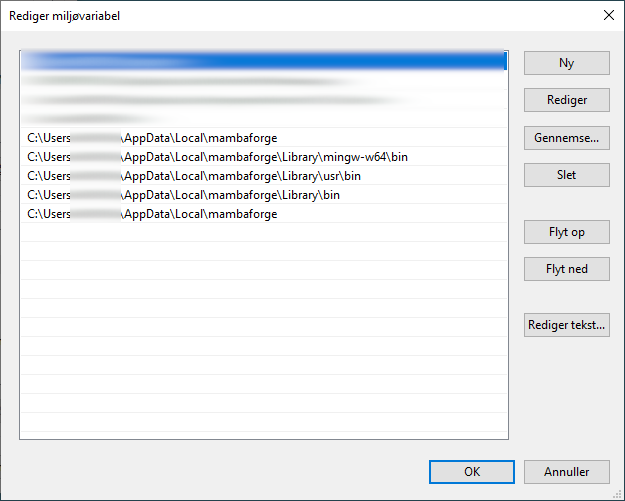
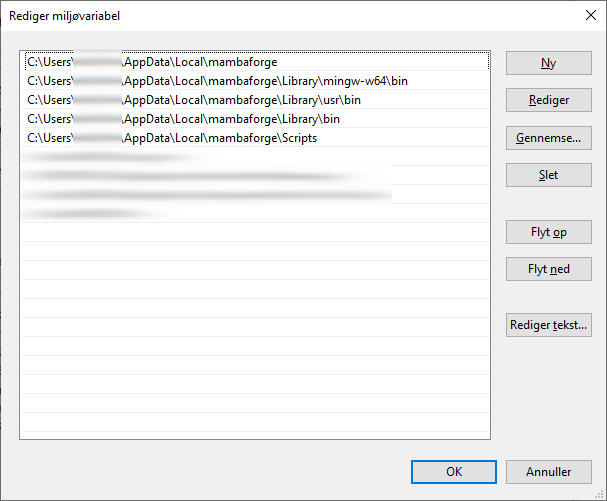
docs: Tilvælg stier på PATH, og lav vejledningen om, så den beskriver, hvordan man fjerner dem igen.

diff --git a/source/setup.rst b/source/setup.rst
@@ -102,14 +102,16 @@ standardiseret placering som bør følges. Tryk næste.
     *Installationsplacering*
 
 Sidste skridt i installationen er at tage stilling til avancerede
-indstillinger. Vi følger de anbefalede valgmuligheder:
+indstillinger. Vi følger de anbefalede valgmuligheder bortset fra,
+at vi gerne vil kunne tilgå `mamba` fra enhver terminal, herunder
+også i en IDE som VS Code. Sæt derfor følgende og lad resten være
+som det var i udgangspunktet:
 
+* Tilføj MambaForge-stier til din brugers lokale ``PATH``-miljøvariabel
 * Registrér Mambaforge som default Python installation
 * Ryd cache efter installation
 
-Førstnævnte er det bedste valg for de fleste. Hvis det **ikke** er det bedste
-valg for dig ved du det godt og kan med fordel vælge anderledes. Alle andre bør
-følge anbefalingen her.
+Miljøvariablen ``PATH`` kan rettes til senere, hvis det ikke er nødvendigt.
 
 .. figure:: ./images/mamba-install-05.png
     :align: center
@@ -118,6 +120,60 @@ følge anbefalingen her.
     *Avancerede installationsvalg*
 
 Afvent at installationsprogrammet kører færdig.
+
+.. tip ::
+
+    **Håndtering af MambaForge-stier i din lokale PATH-miljøvariabel**
+
+    Med installationsvalgene ovenfor får din lokale ``PATH``-miljøvariabel
+    føjet følgende stier til foran de eksisterende stier:
+
+        .. code-block:: none
+
+            %LocalAppData%\mambaforge
+            %LocalAppData%\mambaforge\Library\mingw-w64\bin
+            %LocalAppData%\mambaforge\Library\usr\bin
+            %LocalAppData%\mambaforge\Library\bin
+            %LocalAppData%\mambaforge\Scripts
+
+    Med disse stier sat kan du nu aktivere miljøer i en ny terminal,
+    eksempelvis ``cmd.exe``, og en IDE som Visual Studio Code kan sende
+    aktiveringskommandoen for et givet miljø i de nye terminal-vinduer,
+    du åbner igennem programmet (PowerShell, CMD, Git Bash, CMDer, etc.).
+
+    Fordelen ved dette er altså, at ``mamba`` og andre programmer, der ligger
+    på disse placeringer, nu er tilgængelige for alle terminaler, herunder
+    også dén terminal, du bruger i dit :ref:`integrerede udviklingsmiljø <værktøjer>`.
+
+    Ønsker du at rette eller fjerne disse stier igen, kan du tilgå dine
+    miljøvariable på følgende måde:
+
+    *   Åbn kontrolpanel-funktionen "Rediger miljøvariabler for din konto"
+        fra Windows-startmenu:
+
+        .. figure:: ./images/env-run-search-user-env.png
+            :align: center
+            :alt:   Fremsøg dialog-vindue til at ændre miljø-variable for brugerkontoen.
+
+            *Fremsøg dialog-vindue til at ændre miljø-variable for brugerkontoen.*
+
+    *   Vælg redigér **Path** [sic]:
+
+        .. figure:: ./images/env-user-env-vars.png
+            :align: center
+            :alt:   Oversigt over miljø-variable for brugeren og på tværs af brugere [systemvariable].
+
+            *Oversigt over miljø-variable for brugeren og på tværs af brugere [systemvariable].*
+
+    *   Se, ret eller fjern de stier, du ønsker:
+
+        .. figure:: ./images/env-user-env-var-path-edit.png
+            :align: center
+            :alt:   Tilføjede stier til PATH, som er nødvendige for, at shell og IDE kender stien til mamba.
+
+            *Tilføjede stier til PATH, som er nødvendige for, at shell og IDE kender stien til mamba.*
+
+
 
 Demonstration
 --------------
@@ -303,51 +359,6 @@ Herefter kan vi aktivere det nye miljø
 
 Bemærk at der nu står ``sdfipython`` i parantesen før stien.
 
-
-.. _integration_med_shell_terminal_og_integreret_udviklingsmiljoe:
-
-Integration med shell-terminal og integreret udviklingsmiljø
-------------------------------------------------------------
-
-For at have ``mamba`` tilgængelig for alle terminaler---og ikke bare
-MambaForge-terminalen---og ikke mindst dit :ref:`integrerede udviklingsmiljø
-<værktøjer>` skal disse værktøjer kende stien til MamabaForge-installationen.
-
-Åbn kontrolpanel-funktionen "Rediger miljøvariabler for din konto" fra Windows-startemuen:
-
-.. figure:: ./images/env-run-search-user-env.png
-    :align: center
-    :alt:   Fremsøg dialog-vindue til at ændre miljø-variable for brugerkontoen.
-
-    *Fremsøg dialog-vindue til at ændre miljø-variable for brugerkontoen.*
-
-Vælg redigér **Path** [sic]:
-
-.. figure:: ./images/env-user-env-vars.png
-    :align: center
-    :alt:   Oversigt over miljø-variable for brugeren og på tværs af brugere [systemvariable].
-
-    *Oversigt over miljø-variable for brugeren og på tværs af brugere [systemvariable].*
-
-Tilføj følgende stier til variablen:
-
-    .. code-block:: none
-
-        %LocalAppData%\mambaforge
-        %LocalAppData%\mambaforge\Library\bin
-        %LocalAppData%\mambaforge\Scripts
-
-.. figure:: ./images/env-user-env-var-path-edit.png
-    :align: center
-    :alt:   Tilføjede stier til %PATH%, som er nødvendige for, at shell og IDE kender stien til ``mamba``.
-
-    *Tilføjede stier til %PATH%, som er nødvendige for, at shell og IDE kender stien til ``mamba``.*
-
-
-**Med disse stier sat kan du nu aktivere miljøer i en ny terminal, eksempelvis
-  cmd.exe, og en IDE som Visual Studio Code kan sende aktiveringskommandoen for
-  et givet miljø i de nye terminal-vinduer, du åbner igennem programmet
-  (PowerShell, CMD, Git Bash, etc.).**
 
 .. _`The Python Software Foundation`: https://www.python.org/psf/
 .. _`Anaconda`: https://www.anaconda.com/
